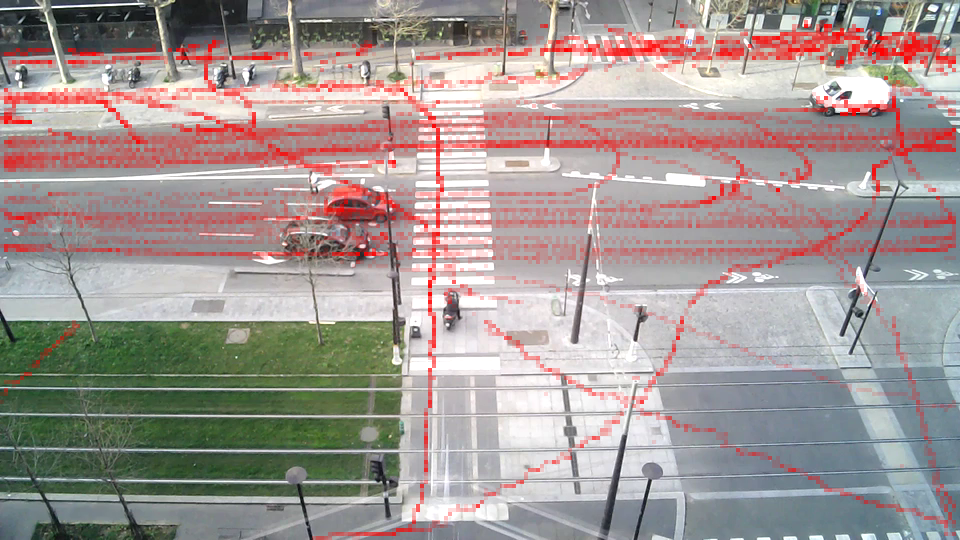
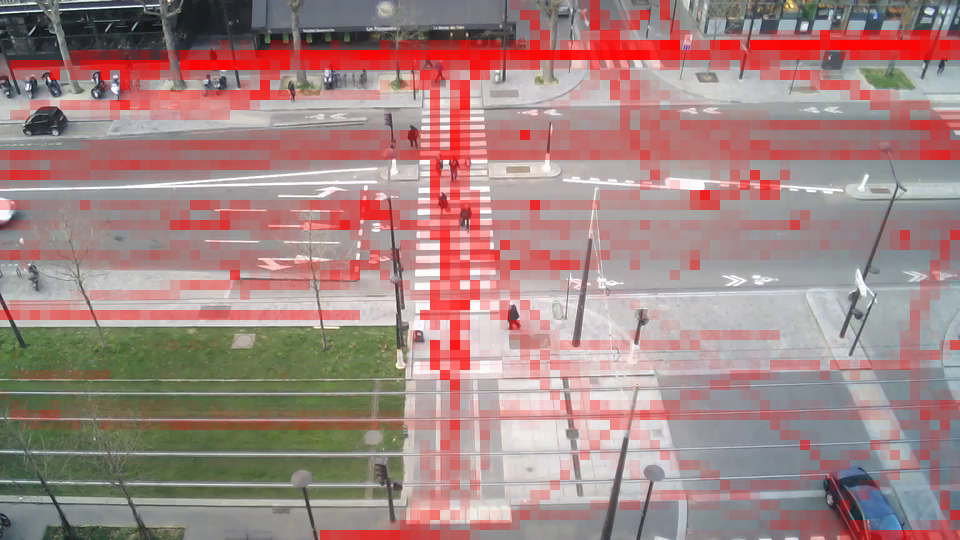
heatmap png

diff --git a/RetailOpenCV/config.py b/RetailOpenCV/config.py
@@ -19,7 +19,7 @@ from detection_config_settings import DetectionConfig
 
 #VIDEO_SOURCE = "C:\\Users\\Olivier-Laforge\\Documents\\DatasetRetail\\chutes\\chute10\\cam2.avi"
 
-VIDEO_SOURCE = "..\\dataset\\street\\01\\street960.mp4"
+VIDEO_SOURCE = "..\\dataset\\street\\08\\street960.mp4"
 
 #VIDEO_SOURCE = "C:\\Users\\Olivier-Laforge\\Documents\\DatasetRetail\\chutes\\chute22\\cam2.avi"
 
@@ -100,11 +100,11 @@ INIT_FILE = "init.png"
 DRAW_CONFIG = False
 DRAW_ZONES = True
 DRAW_PERSONS = True
-DRAW_PERSON_PATH_TAIL = True
-DRAW_PERSON_PATH_TAIL_LENGTH = 100
+DRAW_PERSON_PATH_TAIL = False
+DRAW_PERSON_PATH_TAIL_LENGTH = 400
 
 DRAW_HEAT_MAP = True
-HEAT_MAP_CELL_SIZE = 4
+HEAT_MAP_CELL_SIZE = 10
 
 '''
 '

diff --git a/RetailOpenCV/RetailOpenCV.py b/RetailOpenCV/RetailOpenCV.py
@@ -618,8 +618,8 @@ def main():
         #t = float(t)/float(VideoSource.nb_frame)
         print('{}: {}ms'.format(t, (float(tot[t])/VideoSource.nb_frame)*1000))
 
-    if cf.DRAW_HEAT_MAP:
-        print("heat_map: {}ms".format(t_a_heat_map-t_heat_map))
+    #if cf.DRAW_HEAT_MAP:
+        #print("heat_map: {}ms".format(t_a_heat_map-t_heat_map))
     
     print("--------------------------")
     
